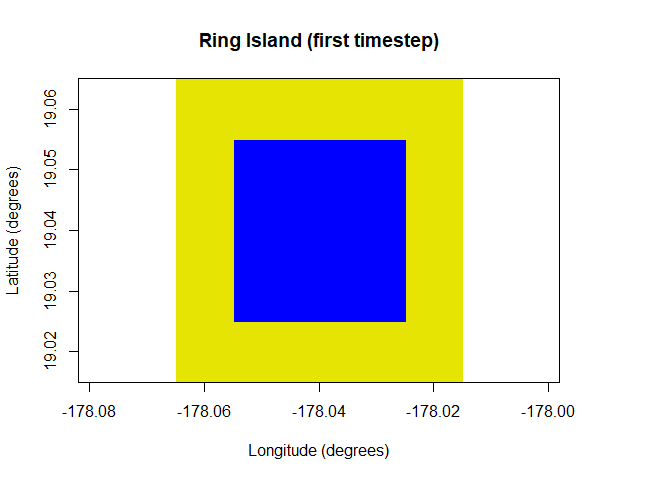
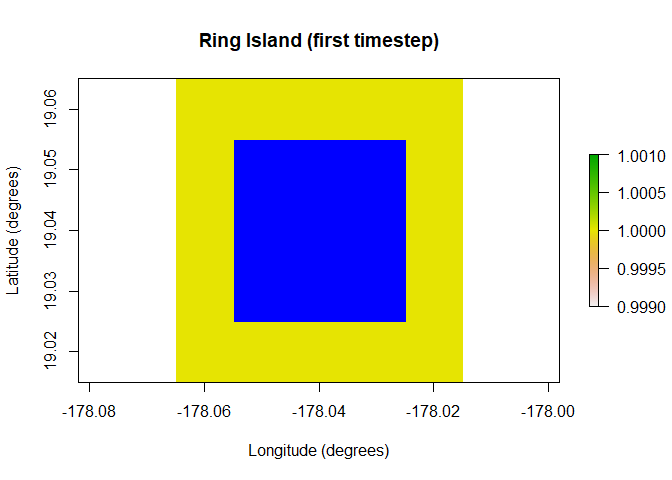
Revised README file for clarity.

Changed region(s): [[0.875, 0.3125, 1.0, 0.6562], [0.9375, 0.375, 1.0, 0.4375]]

diff --git a/README.md b/README.md
@@ -6,6 +6,7 @@
 <!-- badges: start -->
 
 [![R-CMD-check](https://github.com/GlobalEcologyLab/paleopop/workflows/R-CMD-check/badge.svg)](https://github.com/GlobalEcologyLab/paleopop/actions)
+
 <!-- badges: end -->
 
 `paleopop` is an extension to `poems`, a spatially-explicit,
@@ -23,18 +24,38 @@ You can install the development version from
 devtools::install_github("GlobalEcologyLab/paleopop")
 ```
 
+## About R6 classes
+
+`poems` and `paleopop` are based on
+[R6](https://r6.r-lib.org/articles/Introduction.html "R6 reference")
+class objects. R is primarily a *functional* programming language; if
+you want to simulate a population, you might use the `lapply` or
+`replicate` functions to repeat a generative function like `rnorm`. R6
+creates an *object-oriented* programming language inside of R, so
+instead of using functions on other functions, in these packages we
+simulate populations using methods attached to objects. Think of R6
+objects like machines, and methods like switches you can flip on the
+machines.
+
 ## Example
 
 One of the major additions in `paleopop` is the `PaleoRegion` R6 class,
 which allows for regions that change over time due to ice sheets, sea
-level, bathymetry, and so on.
+level, bathymetry, and so on. The plots below show the temporal mask
+functionality of the `PaleoRegion` object. The temporal mask indicates
+cells that are occupiable at each time step with a 1 and unoccupiable
+cells with a `NA`. In this example, I use the `temporal_mask_raster`
+method to show how “Ring Island” changes at time step 10 due to a drop
+in sea level.
 
 ``` r
 library(poems)
 library(paleopop)
 coordinates <- data.frame(x = rep(seq(-178.02, -178.06, -0.01), 5),
-                          y = rep(seq(19.02, 19.06, 0.01), each = 5))
-template_raster <- Region$new(coordinates = coordinates)$region_raster # full extent
+                          y = rep(seq(19.02, 19.06, 0.01), each = 5),
+                          z = rep(1, 25))
+template_raster <- raster::rasterFromXYZ(coordinates, 
+                                         crs = "+proj=longlat +datum=WGS84 +ellps=WGS84 +towgs84=0,0,0")
 sealevel_raster <- template_raster
 template_raster[][c(7:9, 12:14, 17:19)] <- NA # make Ring Island
 sealevel_raster[][c(7:9, 12:14, 17:18)] <- NA
@@ -42,7 +63,7 @@ raster_stack <- raster::stack(x = append(replicate(9, template_raster), sealevel
 region <- PaleoRegion$new(template_raster = raster_stack)
 raster::plot(region$temporal_mask_raster()[[1]], main = "Ring Island (first timestep)",
              xlab = "Longitude (degrees)", ylab = "Latitude (degrees)",
-             colNA = "blue", legend = F)
+             colNA = "blue")
 ```
 
 <img src="man/figures/README-paleoregion_example-1.png" width="100%" />
@@ -50,56 +71,63 @@ raster::plot(region$temporal_mask_raster()[[1]], main = "Ring Island (first time
 ``` r
 raster::plot(region$temporal_mask_raster()[[10]], main = "Ring Island (last timestep)",
              xlab = "Longitude (degrees)", ylab = "Latitude (degrees)",
-             colNA = "blue", legend = F)
+             colNA = "blue")
 ```
 
 <img src="man/figures/README-paleoregion_example-2.png" width="100%" />
 
-`paleopop` also includes the `PaleoPopModel` class for running
-simulations over paleo time scales, and the `PaleoPopResults` class for
-storing the outputs from the paleo population simulator.
+`paleopop` also includes the `PaleoPopModel` class, which sets up the
+population model structure. Here I show a very minimalist setup of a
+model template using this class.
 
 ``` r
 model_template <- PaleoPopModel$new(
-  region = region,
-  time_steps = 10,
+  region = region, # makes the simulation spatially explicit
+  time_steps = 10, # number of time steps to simulate
   years_per_step = 12, # years per generational time-step
-  standard_deviation = 0.1,
-  growth_rate_max = 0.6,
-  harvest = F,
-  populations = region$region_cells,
-  initial_abundance = seq(9000, 0, -1000),
-  transition_rate = 1.0,
-  carrying_capacity = rep(1000, 17),
-  dispersal = (!diag(nrow = 17, ncol = 17))*0.05,
-  density_dependence = "logistic",
-  dispersal_target_k = 10,
-  occupancy_threshold = 1, 
-  abundance_threshold = 10,
-  results_selection = c("abundance")
+  standard_deviation = 0.1, # SD of growth rate
+  growth_rate_max = 0.6, # maximum growth rate
+  harvest = F, # are the populations harvested?
+  populations = 17, # total occupiable cells over time
+  initial_abundance = seq(9000, 0, -1000), # initial pop. sizes
+  transition_rate = 1.0, # transition rate between generations
+  carrying_capacity = rep(1000, 17), # static carrying capacity
+  dispersal = (!diag(nrow = 17, ncol = 17))*0.05, # dispersal rates
+  density_dependence = "logistic", # type of density dependence
+  dispersal_target_k = 10, # minimum carrying capacity to attract dispersers
+  occupancy_threshold = 1, # lower than this # of pops. means extinction
+  abundance_threshold = 10, # threshold for Allee effect
+  results_selection = c("abundance") # what outputs do you want in results?
 )
+```
 
+The `paleopop_simulator` function accepts a PaleoPopModel object or a
+named list as input to simulate populations over paleo time scales, and
+the `PaleoPopResults` class stores the outputs from the paleo population
+simulator.
+
+``` r
 results <- paleopop_simulator(model_template)
 results # examine
 #> $abundance
 #>       [,1] [,2] [,3] [,4] [,5] [,6] [,7] [,8] [,9] [,10]
 #>  [1,]    0    0    0    0    0    0    0    0    0     0
-#>  [2,]    0    0    0    0    0    0    0    0    0     0
-#>  [3,]   33   50   62  107  170  300  441  575  798   846
-#>  [4,]   30   60   90  160  270  358  457  705  979   896
-#>  [5,]  310  416  527  663  744  968 1058  946 1013   951
-#>  [6,]  510  623  732  900  831  920 1135  809 1122   879
-#>  [7,]  758  914  903 1019  846  978 1069 1200  962   914
-#>  [8,]  901 1078 1062 1040  909  902  970  831  735   794
-#>  [9,] 1133 1177 1069  918  947  929 1207 1056 1178  1013
+#>  [2,]   87  151  275  409  604  876 1023 1090 1164   989
+#>  [3,]    0    0    0    0    0    0    0    0    0     0
+#>  [4,]   85  157  281  392  593  687  904  933  816   924
+#>  [5,]  965 1105  982  831  880 1082 1039 1149 1012   981
+#>  [6,]  201  332  487  681  879  977 1226 1149 1434   903
+#>  [7,]  791  872  901  923  965  860  795  821  924   893
+#>  [8,]  995  990  851  975  957  984  987 1172 1175  1146
+#>  [9,]  886 1144  991  798  924 1105 1293 1072  869   854
 #> [10,]    0    0    0    0    0    0    0    0    0     0
-#> [11,]   13   23   32   67  119  209  379  558  780   941
-#> [12,]   13   21   24   55  110  173  284  484  620   807
-#> [13,]   77  150  241  396  543  763  856  965  977   898
-#> [14,]   16   28   52   92  153  292  436  602  734   830
-#> [15,]   38   62  112  177  284  427  591  713  796   723
-#> [16,]  393  631  680  835  864  962 1040  947 1214   986
-#> [17,] 1300 1061  962 1005  853 1053 1027 1071  830   857
+#> [11,]   39   82  139  253  446  640  776  800  831   980
+#> [12,]   20   40   76  138  240  314  439  585  653   728
+#> [13,]   56  110  177  299  485  667  890 1083 1201   921
+#> [14,] 4431  300  518  786  957  857  867 1035  928  1079
+#> [15,]  346  482  571  726  786  889  967  937  938   879
+#> [16,]  240  386  521  729  777  932  920  813  901  1005
+#> [17,]  585  693  753  887 1074 1069  907 1069 1029   947
 raster::plot(region$raster_from_values(results$abundance[,10]),
              main = "Final abundance", xlab = "Longitude (degrees)", 
              ylab = "Latitude (degrees)", colNA = "blue")
